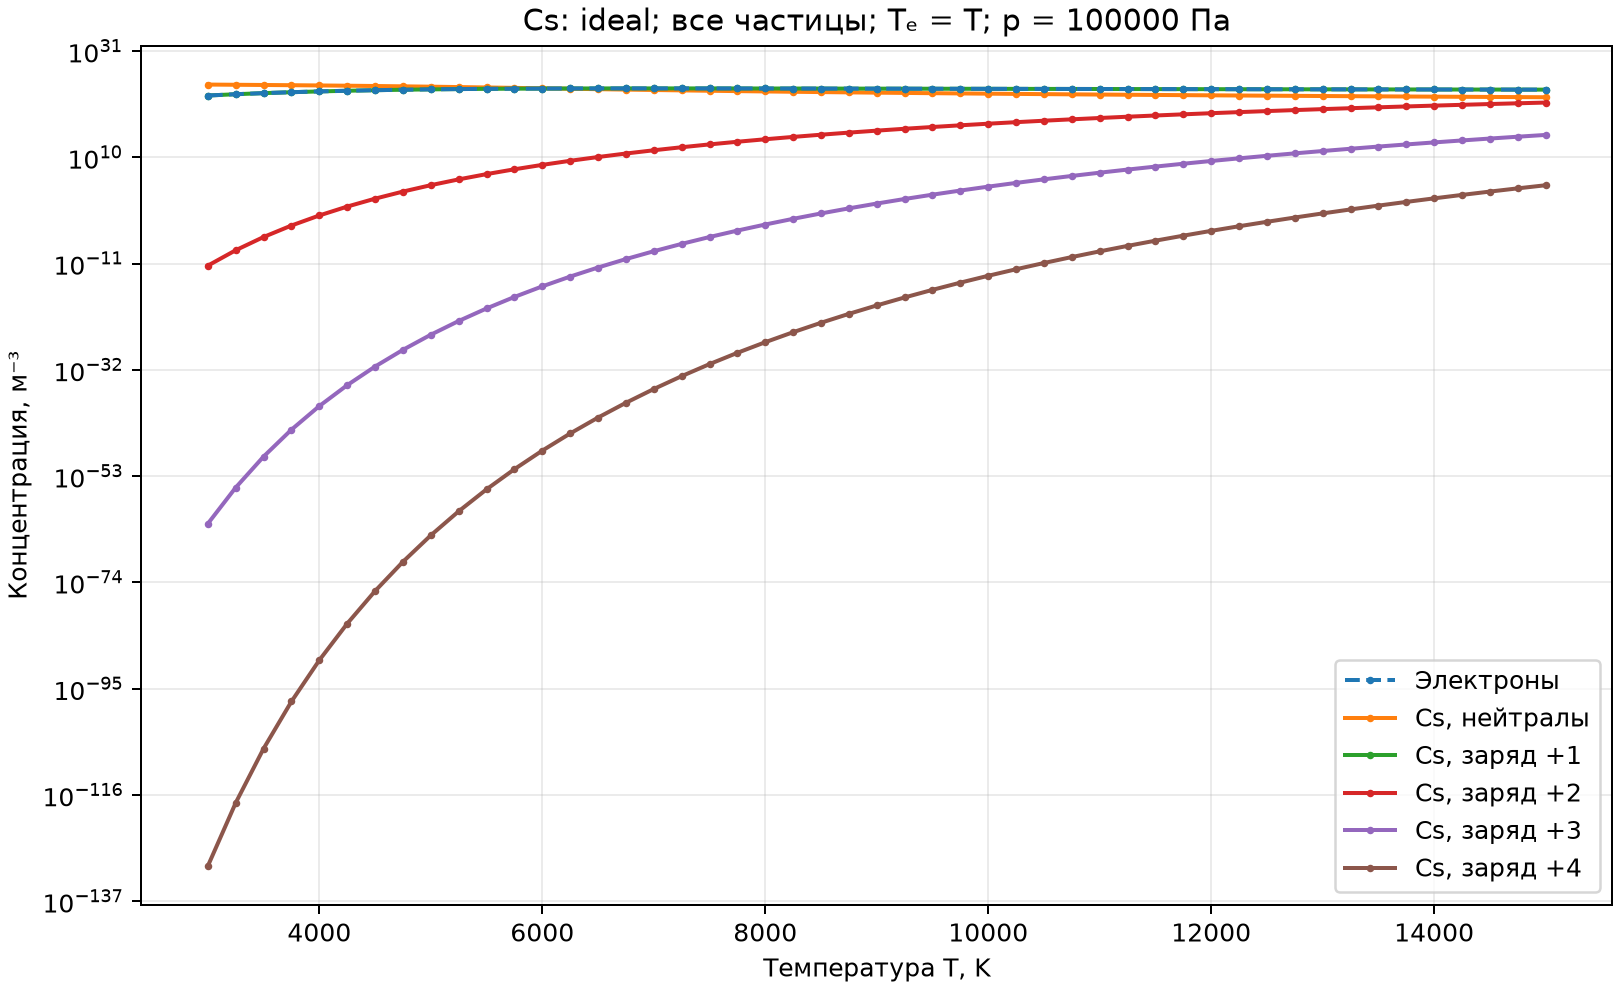
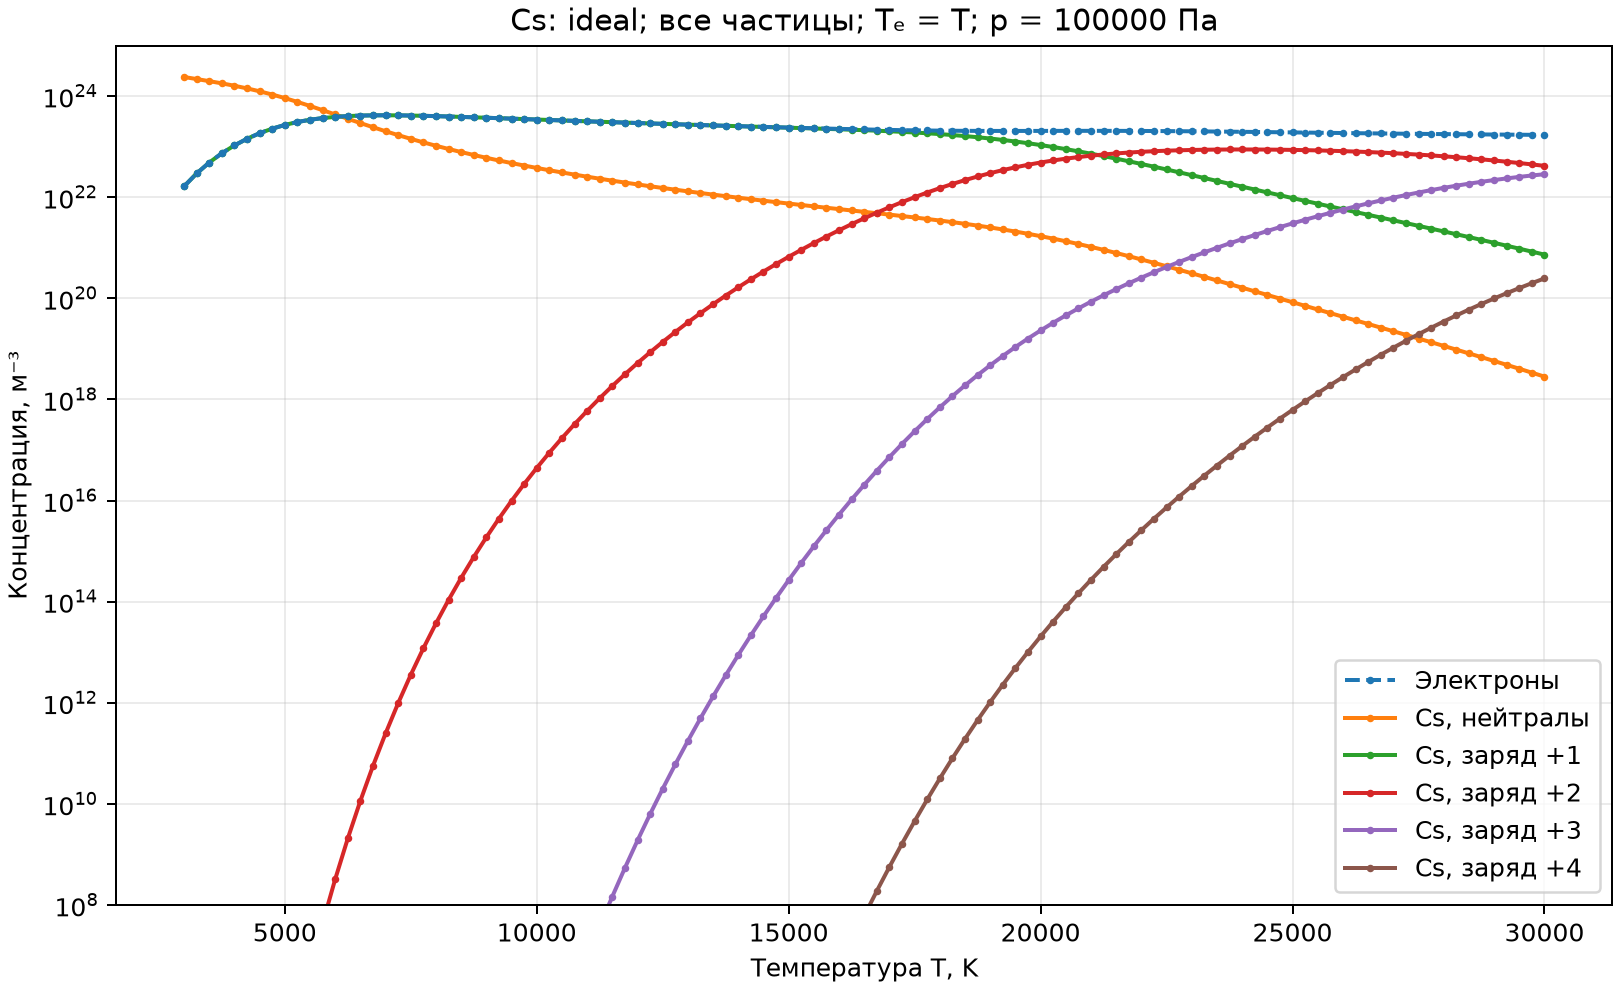
cut plots

diff --git a/src/plasma/output.py b/src/plasma/output.py
@@ -120,6 +120,20 @@ def plot_results(solutions: list[Solution], settings: RunSettings) -> list[Path]
                         linewidth=1.6, zorder=5 if i == 0 else 2,
                     )
                 ax.set_yscale("log")
+                # Обрезка!!!
+                values = density[:, indices]
+                positive = values[np.isfinite(values) & (values > 0)]
+
+                if positive.size:
+                    lower = max(
+                        1e8,
+                        10.0 ** np.floor(np.log10(positive.min())),
+                    )
+                    upper = 10.0 ** np.ceil(
+                        np.log10(max(positive.max() * 1.1, lower * 10))
+                    )
+                    ax.set_ylim(lower, upper)
+
                 ax.set_xlabel("Температура T, K")
                 ax.set_ylabel("Концентрация, м⁻³")
                 ax.set_title(f"{element}: {mode}; {description}; Tₑ = T; p = {settings.pressure_pa:g} Па")

diff --git a/src/config.py b/src/config.py
@@ -13,7 +13,7 @@ SETTINGS = RunSettings(
     models=("ideal", "nonideal"),
     pressure_pa=100_000.0,       # 1 бар; ввод всегда в Па.
     temperature_start_k=3000.0,
-    temperature_stop_k=15000.0,
+    temperature_stop_k=30000.0,
     temperature_step_k=250.0,
     max_charge=4,               # Совместный расчёт нейтрала и ионов +1, +2, +3, +4.
     reference_density_m3=1e24,  # 10^18 см^-3 — масштаб из семинарского листочка.
